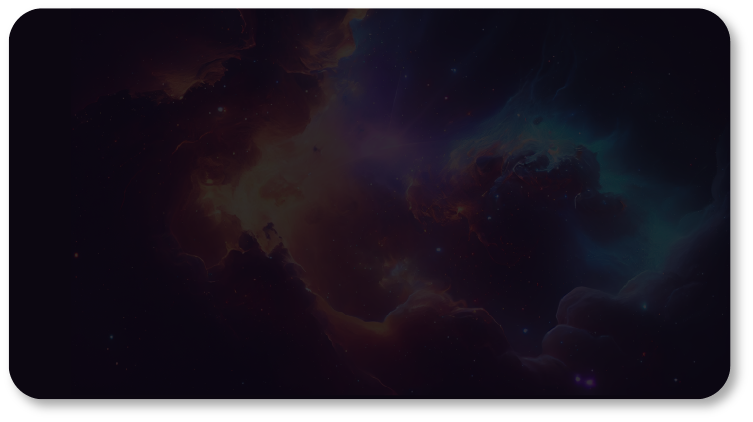
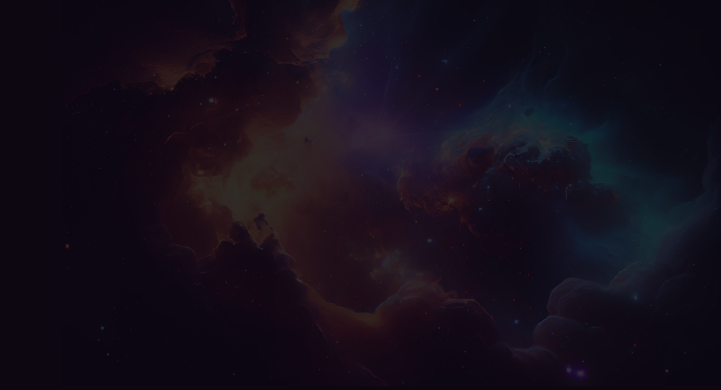
tarjetas

Changed region(s): [[0.0, 0.0, 1.0, 1.0], [0.3356, 0.6154, 0.3662, 0.6462]]

diff --git a/styles.css b/styles.css
@@ -125,8 +125,7 @@ h1 {
             position: absolute;
             width: 1600px;
             height: 700px;
-            inset: -100px 0px 0px 0px;
-            border-radius: 28px;
+            inset: -125px 0px 0px 0px;
             background: url(assets/FondoTarjetas.png) center no-repeat;
             background-size: contain;
             z-index: 0;
